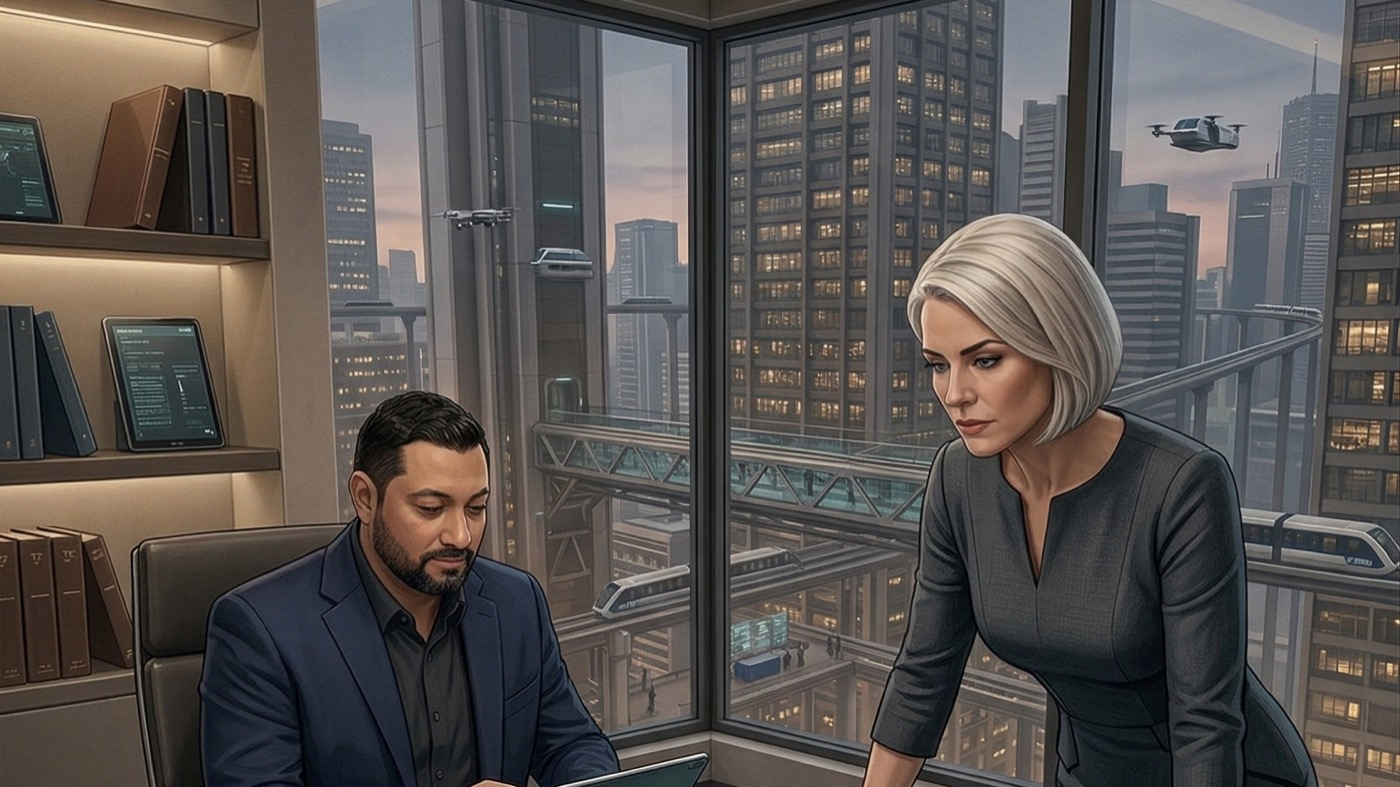
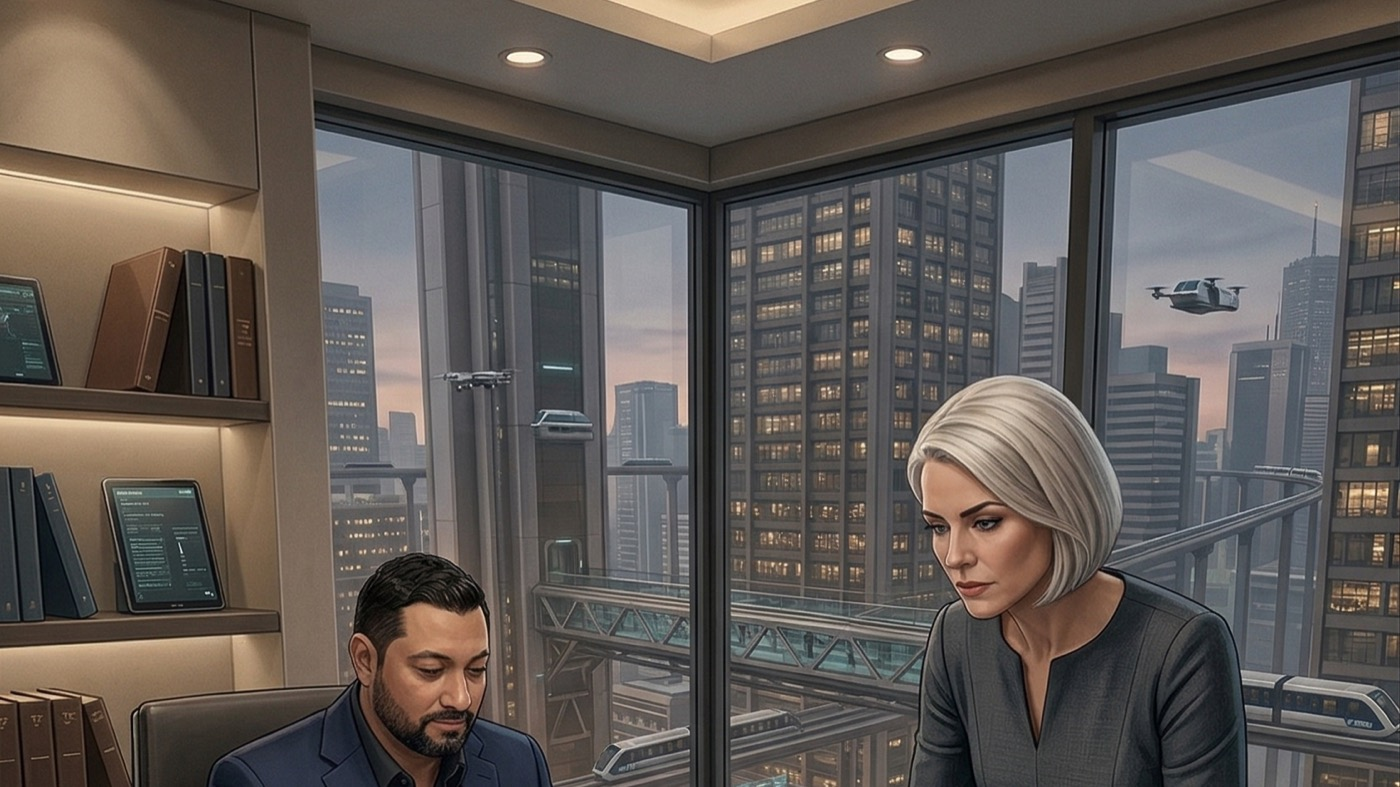
Fix chapter image crops — preserve heads, custom focal points
Changed ChapterHero default focalPoint from "center" to "top" so
CSS object-position anchors to the top of the image instead of
center-cropping. This preserves heads in all landscape images
(ch01, ch06, ch07, ch08, ch09, ch12, ch15, ch16).

Re-cropped portrait images with custom offsets:
- Ch05 LLCs: crop starts higher (y=200 vs 395) to include both
  Sammy and Zeeva's heads
- Ch10 Staying Private: crop starts lower (y=350 vs 197) to show
  Zeeva talking down to the group; uses focalPoint="center"
- Ch14 Piercing the Veil: crop adjusted (y=250) to show Zeeva's
  full face with entity map context

diff --git a/src/modules/ch10-staying-private/index.jsx b/src/modules/ch10-staying-private/index.jsx
@@ -294,7 +294,7 @@ export default function Ch10StayingPrivate() {
   return (
     <div className="max-w-5xl mx-auto px-6 py-12 space-y-6">
       <ModuleBreadcrumb chapterNum="10" title="Staying Private" />
-      <ChapterHero src={chapterImage} alt="VC term sheet comparison meeting with market charts on wall screens" />
+      <ChapterHero src={chapterImage} alt="VC term sheet comparison meeting with market charts on wall screens" focalPoint="center" />
       <p className="font-ui text-xs text-sprawl-yellow/60 uppercase tracking-widest">
         Chapter 10 · Staying Private
       </p>

diff --git a/src/components/course/ChapterHero.jsx b/src/components/course/ChapterHero.jsx
@@ -1,6 +1,6 @@
 import AppImage from "../ui/AppImage";
 
-export default function ChapterHero({ src, alt }) {
+export default function ChapterHero({ src, alt, focalPoint = "top" }) {
   if (!src) return null;
 
   return (
@@ -9,7 +9,7 @@ export default function ChapterHero({ src, alt }) {
         src={src}
         alt={alt}
         mode="cover"
-        focalPoint="center"
+        focalPoint={focalPoint}
         className="w-full h-48 md:h-64"
         imgClassName="opacity-70"
       />
